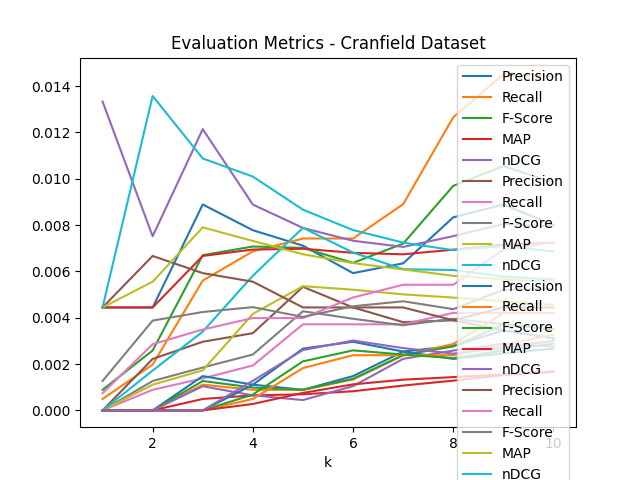
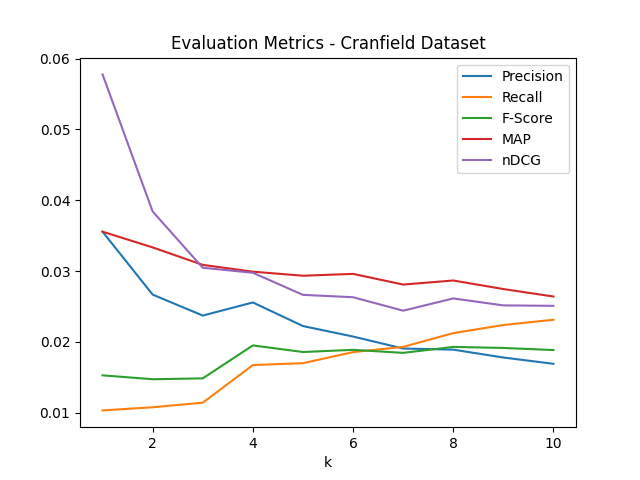
doc2vec

diff --git a/informationRetrieval.py b/informationRetrieval.py
@@ -7,21 +7,14 @@ k1HP = 0.3
 k2HP = 0.9
 b1HP = 0.025
 
-# number of clusters
-K_clusters= 200
-sim_digree=0.3
-######### Clustering
+#Clustering
+numClusters = 500
+minCosSim = 0.3
 
 def findCosSim(a, b):
+	if np.linalg.norm(a) == 0 or np.linalg.norm(b) == 0:
+		return -1
 	return np.dot(a,b)/(np.linalg.norm(a)*np.linalg.norm(b))
-
-def spherical_kmeans(n_clusters_, list_of_words_vectors,sim_digree):
-	embeddings_matrix_csr = csr_matrix(list_of_words_vectors)
-	spherical_kmeans = SphericalKMeans( max_similar=sim_digree, init='similar_cut', 
-		n_clusters = n_clusters_)
-	labels = spherical_kmeans.fit_predict(embeddings_matrix_csr)
-	centers = spherical_kmeans.cluster_centers_
-	return labels , centers
 
 class InformationRetrieval():
 
@@ -94,76 +87,13 @@ class InformationRetrieval():
 		for doc in docs:
 			newDocs.append(list(chain.from_iterable(doc)))
 
-		model = FastText(newDocs, min_count=5)
-
-		wordEmbeddings = {}
-		wordsMap = []
-		embsMap = []
-		allDocEmbs = []
-
+		documents = [TaggedDocument(doc, [i]) for i, doc in enumerate(newDocs)]
+		model = Doc2Vec(vector_size=500, min_count=2, epochs=40, window=2)
+		model.build_vocab(documents)
+		model.train(documents, total_examples=model.corpus_count, epochs=model.epochs)
+		docEmbeddings = []
 		for doc in newDocs:
-			docEmb = []
-			for word in doc:
-				try:
-					emb = model.wv[word]
-					docEmb.append(emb)
-					wordEmbeddings.update({word: emb})
-				except: 
-					continue
-			allDocEmbs.append(docEmb)
-		for word in wordEmbeddings.keys():
-			wordsMap.append(word)
-			embsMap.append(wordEmbeddings[word])
-
-		labels , centers = spherical_kmeans(K_clusters , embsMap, sim_digree)
-		keywords = proportion_keywords(centers, labels, index2word=wordsMap)
-
-		conceptMap = {}
-		docConceptCounts = []	
-		
-		for doc in newDocs:
-			clusterCount = [0]*len(keywords)
-			f = False
-			for word in list(set(doc)):
-				for cl in range(len(keywords)):
-					if word in [f for (f,s) in keywords[cl]]:
-						if str(cl) not in conceptMap.keys():
-							conceptMap.update({
-								str(cl) : {
-									"docFreq": 0,
-									"docCounts": [0]*len(newDocs)
-								}
-							})
-
-						if conceptMap[str(cl)]["docCounts"][newDocs.index(doc)] == 0:
-							conceptMap[str(cl)]["docFreq"] += 1
-						conceptMap[str(cl)]["docCounts"][newDocs.index(doc)] += 1
-						clusterCount[cl] += doc.count(word)
-						f = True 
-			docConceptCounts.append(clusterCount)
-			if not f: 
-				# print(f"Not in any cluster: {doc}\n")
-				continue
-		# for concept in conceptMap.keys():
-		# 	df = conceptMap[concept].get("docFreq")
-		# 	print(f"{concept}: {df}/{len(newDocs)}")
-
-		docConcept = []
-
-		for doc in newDocs: 
-			docCounts = docConceptCounts[newDocs.index(doc)]
-			docRepr = [0]*len(docCounts)
-			for concept in list(conceptMap.keys()):
-				curConcept = docCounts[int(concept)]
-				if sum(docCounts):
-					curConcept /= sum(docCounts)
-				if conceptMap[concept]["docFreq"] != 0:
-					curConcept *= np.log(len(newDocs)/conceptMap[concept]["docFreq"])
-				docRepr[int(concept)] = curConcept
-			docConcept.append(docRepr)
-
-		# fig = visualize_pairwise_distance(centers, max_dist=.7, sort=True)
-		# fig.show()
+			docEmbeddings.append(model.infer_vector(doc))
 
 		# words = list(set(chain.from_iterable(list(chain.from_iterable(docs)))))
 
@@ -304,13 +234,8 @@ class InformationRetrieval():
 			# "dh": dh,
 			"docIDs": docIDs,
 			# "avdl": avdl,
-			"keywords": keywords,
-			"docConceptCounts": docConceptCounts,
-			"conceptMap": conceptMap,
-			"docConcept": docConcept,
-			"wordEmbeddings": wordEmbeddings,
-			"centers": centers,
-			"labels": labels,
+			"docEmbeddings": docEmbeddings,
+			"model": model,
 		}
 
 		self.index = index
@@ -333,33 +258,19 @@ class InformationRetrieval():
 			A list of lists of integers where the ith sub-list is a list of IDs
 			of documents in their predicted order of relevance to the ith query
 		"""
-
+		
+		print("Processing queries...")
 		doc_IDs_ordered = []
 
 		newQueries = list(chain.from_iterable(queries))
 		for query in newQueries:
-			clusterCount = [0]*len(self.index["keywords"])
-			f = False 
-			for word in list(set(query)):
-				if word not in self.index["wordEmbeddings"].keys():
-					continue
-				wordEmbed = self.index["wordEmbeddings"][word]
-				for c in range(len(self.index["centers"])):
-					cent = self.index["centers"][c]
-					curCosSim = findCosSim(cent, wordEmbed)
-					if curCosSim >= sim_digree:
-						clusterCount[int(self.index["labels"][c])] += 1
+			queryRepr = self.index["model"].infer_vector(query)
 
-			for cl in range(len(clusterCount)):
-				if sum(clusterCount):
-					clusterCount[cl] /= sum(clusterCount)
-				if self.index["conceptMap"][str(cl)]["docFreq"] != 0:
-					clusterCount[cl] *= np.log(len(self.index["docConceptCounts"])/self.index["conceptMap"][str(cl)]["docFreq"])
 			#Calculate cosine similarities
 			cosSims = []
 			cosSimsIndex = []
-			for d in range(len(self.index["docConcept"])):
-				cosSim = np.dot(self.index["docConcept"][d],clusterCount)
+			for d in range(len(self.index["docEmbeddings"])):
+				cosSim = findCosSim(self.index["docEmbeddings"][d], queryRepr)
 				cosSims.append(cosSim)
 				cosSimsIndex.append(self.index["docIDs"][d])
 			doc_IDs_ordered.append([id for _, id in sorted(zip(cosSims, cosSimsIndex),reverse=True)])	

diff --git a/util.py b/util.py
@@ -19,9 +19,12 @@ from collections import Counter
 
 import gensim
 from gensim.models import FastText
-from soyclustering import SphericalKMeans
-from scipy.sparse import csr_matrix
-from soyclustering import proportion_keywords
-from soyclustering import visualize_pairwise_distance
+from scipy.cluster.vq import kmeans2
+import matplotlib.pyplot as plt
+
+from gensim.test.utils import common_texts
+from gensim.models.doc2vec import Doc2Vec, TaggedDocument
+
+import wikipedia
 
 # Add any utility functions here
